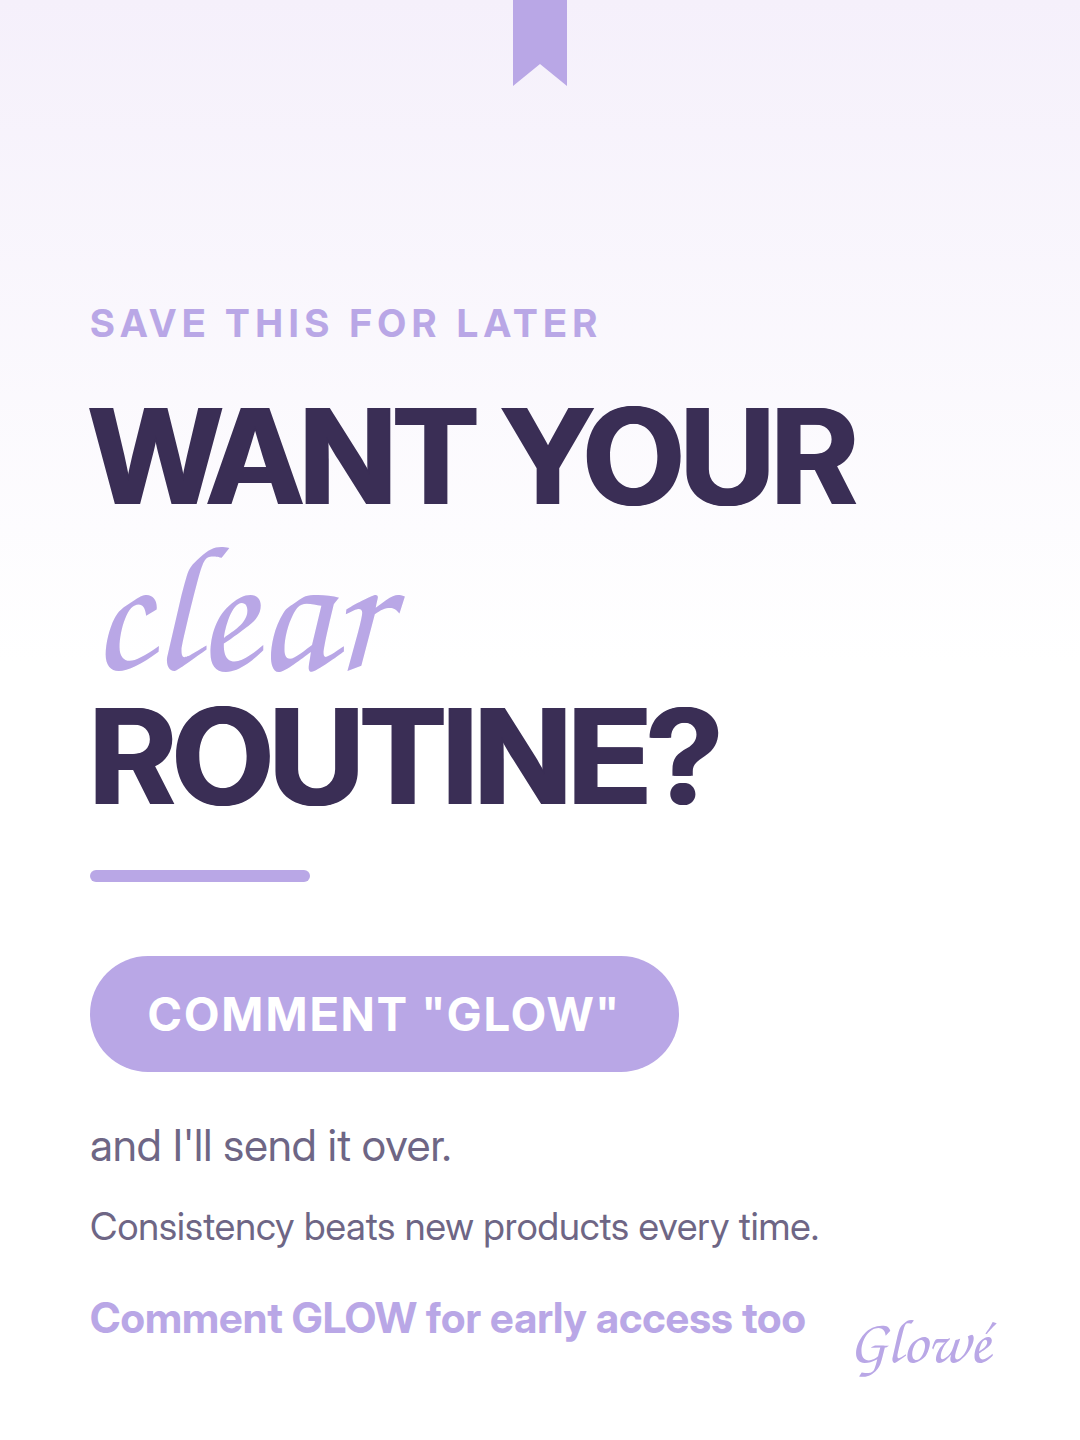
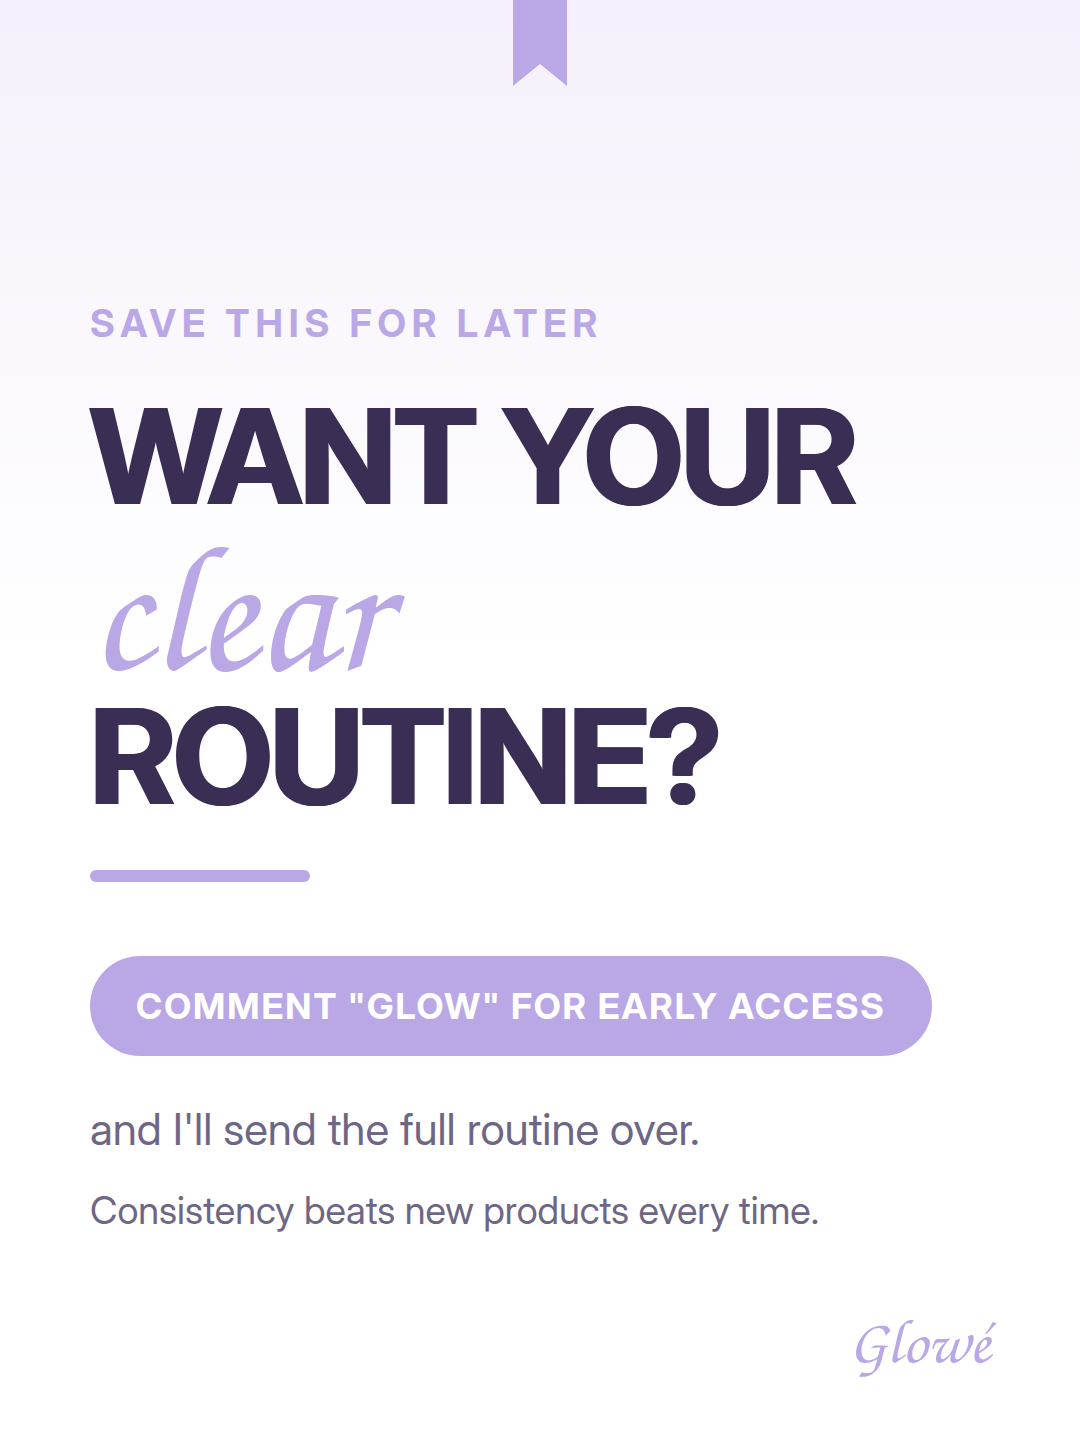
Put the early-access CTA in the closing button instead of a footnote
The lavender line under the caveat was too quiet to act on. The pill is the
loudest element on the slide, so the CTA moves into it: COMMENT "GLOW" FOR
EARLY ACCESS. The line beneath now carries the routine promise the pill used
to hold, and the small trailing line is gone.

Pill text and the line under it come from the JSON instead of being
hard-coded, and a .pill.long variant drops the type a step so the longer CTA
stays on one line inside the 900px column. The long-form class is measured
on the raw string, since escaping turns each quote into six characters and
would misclassify the short default.

Claude-Session: https://claude.ai/code/session_01EJfp6AtmKdfAEJn3yox12P

Changed region(s): [[0.0611, 0.6562, 0.8861, 0.875], [0.0611, 0.9062, 0.7639, 0.9375]]

diff --git a/web/tiktok/render.py b/web/tiktok/render.py
@@ -1,6 +1,6 @@
 #!/usr/bin/env python3
 """Glowe Carousel Renderer v2 - bolder. JSON in, 5 PNG slides (1080x1440) out."""
-import glob, json, os, subprocess, sys
+import glob, html, json, os, subprocess, sys
 from PIL import Image
 
 # Poppins ist hier nicht installierbar (Google-Fonts-Host liegt hinter dem
@@ -66,6 +66,10 @@ body {{
   font-weight:700; font-size:46px; letter-spacing:3px;
   padding:30px 58px; border-radius:70px; margin-top:74px;
 }}
+/* Laengere CTAs ("COMMENT GLOW FOR EARLY ACCESS") sprengen bei 46px die
+   900px-Spalte und brechen um. Eine Stufe kleiner haelt sie einzeilig und
+   der Pill bleibt trotzdem das groesste Element der Slide. */
+.pill.long {{ font-size:36px; letter-spacing:2px; padding:28px 46px; }}
 .after-pill {{ font-size:44px; color:{BODY}; line-height:1.5; margin-top:40px; }}
 .line2 {{ font-size:38px; color:{BODY}; line-height:1.5; margin-top:20px; }}
 /* Zweiter CTA unter dem GLOW-Pill. Lavendel + bold, damit er als eigener
@@ -117,11 +121,18 @@ def build(slide):
                  f"<div class='bar'></div>"
                  f"<div class='card'>{bullets}</div>")
         return page(inner, ghost=slide["ghost_number"])
+    pill_raw = slide.get("pill", 'COMMENT "GLOW"')
+    # Klasse am Rohtext messen, nicht am escapten — &quot; blaeht jedes
+    # Anfuehrungszeichen auf 6 Zeichen auf und wuerde den kurzen Default
+    # faelschlich als "long" einstufen.
+    pill_cls = "pill long" if len(pill_raw) > 20 else "pill"
+    pill = html.escape(pill_raw)
+    after = slide.get("after_pill", "and I'll send it over.")
     inner = (f"<div class='eyebrow'>{slide['eyebrow']}</div>"
              f"<div class='headline'>{headline_html(slide['headline'], slide.get('script_word'))}</div>"
              f"<div class='bar'></div>"
-             f"<div class='pill'>COMMENT &quot;GLOW&quot;</div>"
-             f"<div class='after-pill'>and I'll send it over.</div>"
+             f"<div class='{pill_cls}'>{pill}</div>"
+             f"<div class='after-pill'>{after}</div>"
              f"<div class='line2'>{slide['line2']}</div>"
              + (f"<div class='early'>{slide['early']}</div>"
                 if slide.get("early") else ""))
